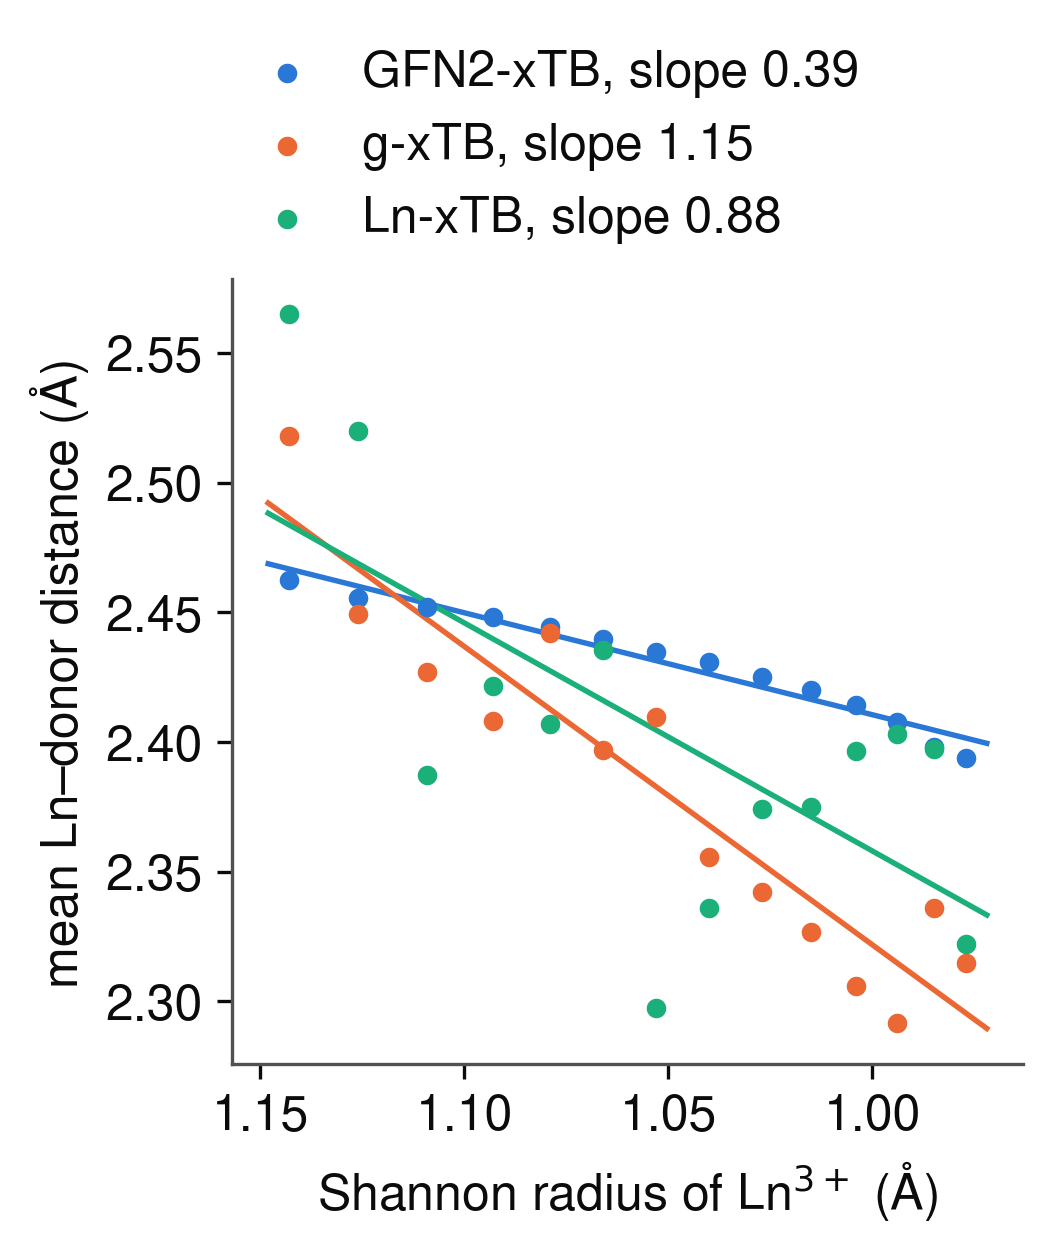
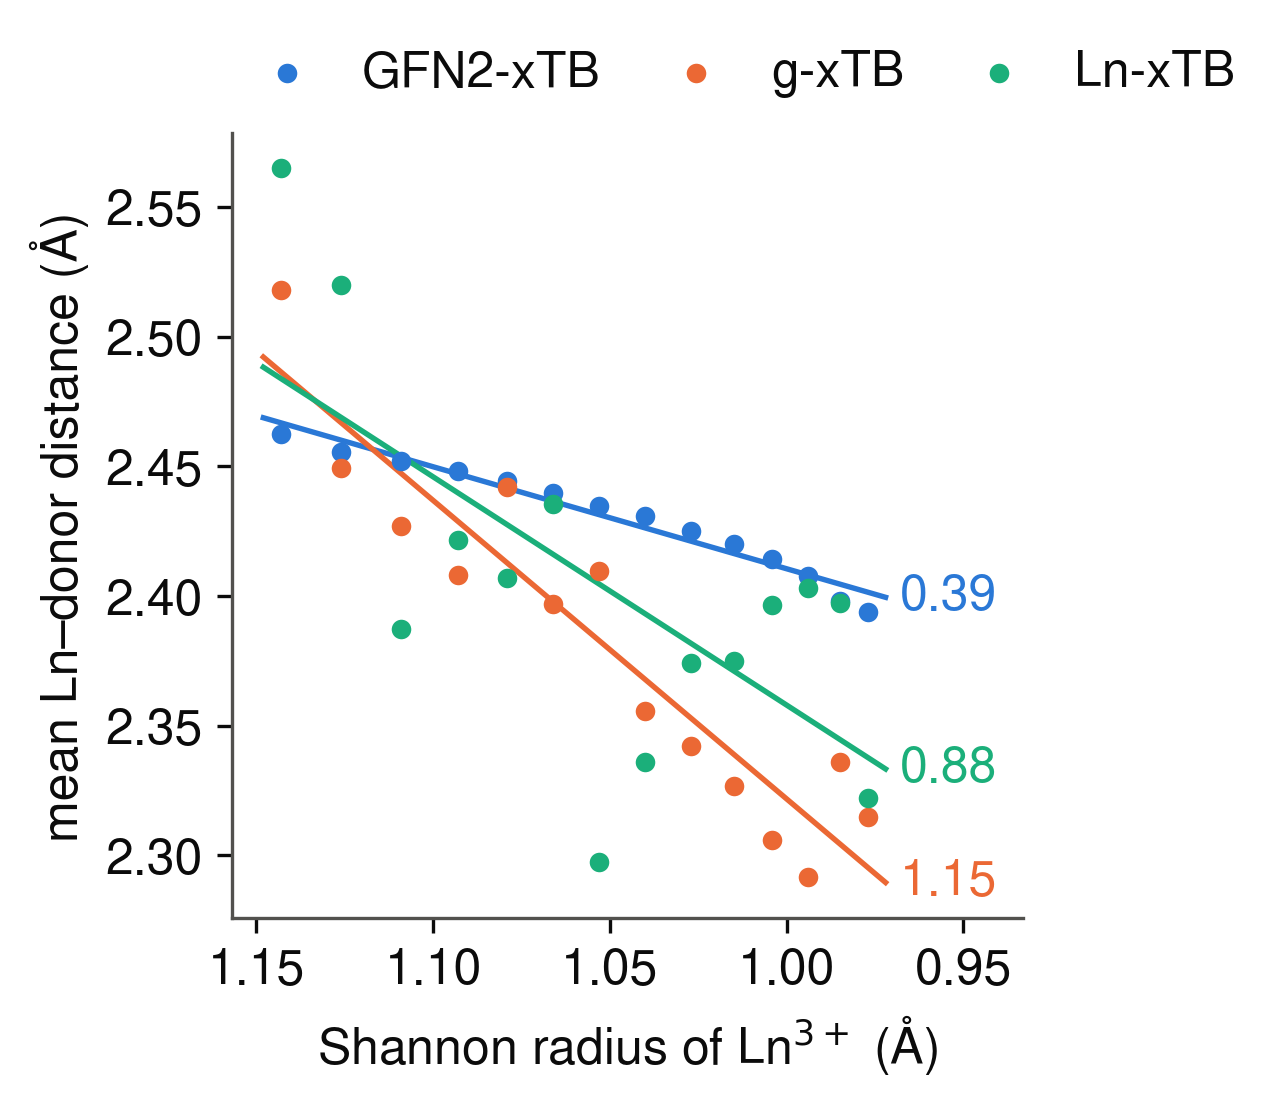
MoML figure 2: slope labels at line ends, one-row legend so both panels share a height; caption updated

diff --git a/docs/moml_2026/main.tex b/docs/moml_2026/main.tex
@@ -207,7 +207,7 @@ All $3 \times 1{,}065$ optimisations converged.
 	\centering
 	\begin{minipage}[t]{0.48\linewidth}\centering\includegraphics[width=\linewidth]{fig2a_series}\end{minipage}\hfill
 	\begin{minipage}[t]{0.48\linewidth}\centering\includegraphics[width=\linewidth]{fig2b_compliance}\end{minipage}
-	\caption{The lanthanide contraction in 71 ligand complexes. Left: one ligand (the one at GFN2-xTB's median compliance), mean Ln--donor distance against the Shannon radius across Ce--Lu under the three Hamiltonians, with the fitted slopes. Right: the per-ligand compliance $c_L$ for all 71 ligands, with the mean of each Hamiltonian as a bar; 1.00 is exact agreement with the ionic radii.}
+	\caption{The lanthanide contraction in 71 ligand complexes. Left: one ligand (the one at GFN2-xTB's median compliance), mean Ln--donor distance against the Shannon radius across Ce--Lu under the three Hamiltonians; the number at each line is its fitted slope. Right: the per-ligand compliance $c_L$ for all 71 ligands, with the mean of each Hamiltonian as a bar; 1.00 is exact agreement with the ionic radii.}
 	\label{fig:contraction}
 \end{figure}
 

diff --git a/docs/moml_2026/make_figures.py b/docs/moml_2026/make_figures.py
@@ -96,11 +96,13 @@ def fig2a(df, comp):
         c, b = np.polyfit(x, yv, 1)
         xx = np.array([x.min() - 0.005, x.max() + 0.005])
         ax.plot(xx, c * xx + b, color=HCOL[arm], lw=1.3, zorder=2)
-        ax.scatter(x, yv, s=22, color=HCOL[arm], linewidths=0, zorder=3,
-                   label=f"{name}, slope {c:.2f}")
+        ax.scatter(x, yv, s=22, color=HCOL[arm], linewidths=0, zorder=3, label=name)
+        ax.text(xx[0] - 0.004, c * xx[0] + b, f"{c:.2f}", color=HCOL[arm],
+                ha="left", va="center")                 # slope at the line's small-radius end
     ax.invert_xaxis()
+    x0, x1 = ax.get_xlim(); ax.set_xlim(x0, x1 - 0.03)   # room for the slope labels
     ax.set_xlabel("Shannon radius of Ln$^{3+}$ (Å)"); ax.set_ylabel("mean Ln–donor distance (Å)")
-    fs.legend_above(ax, ncol=1)
+    fs.legend_above(ax, ncol=3)
     fs.finish(fig, "fig2a_series")
     return fam.split("||")[0], cn
 
